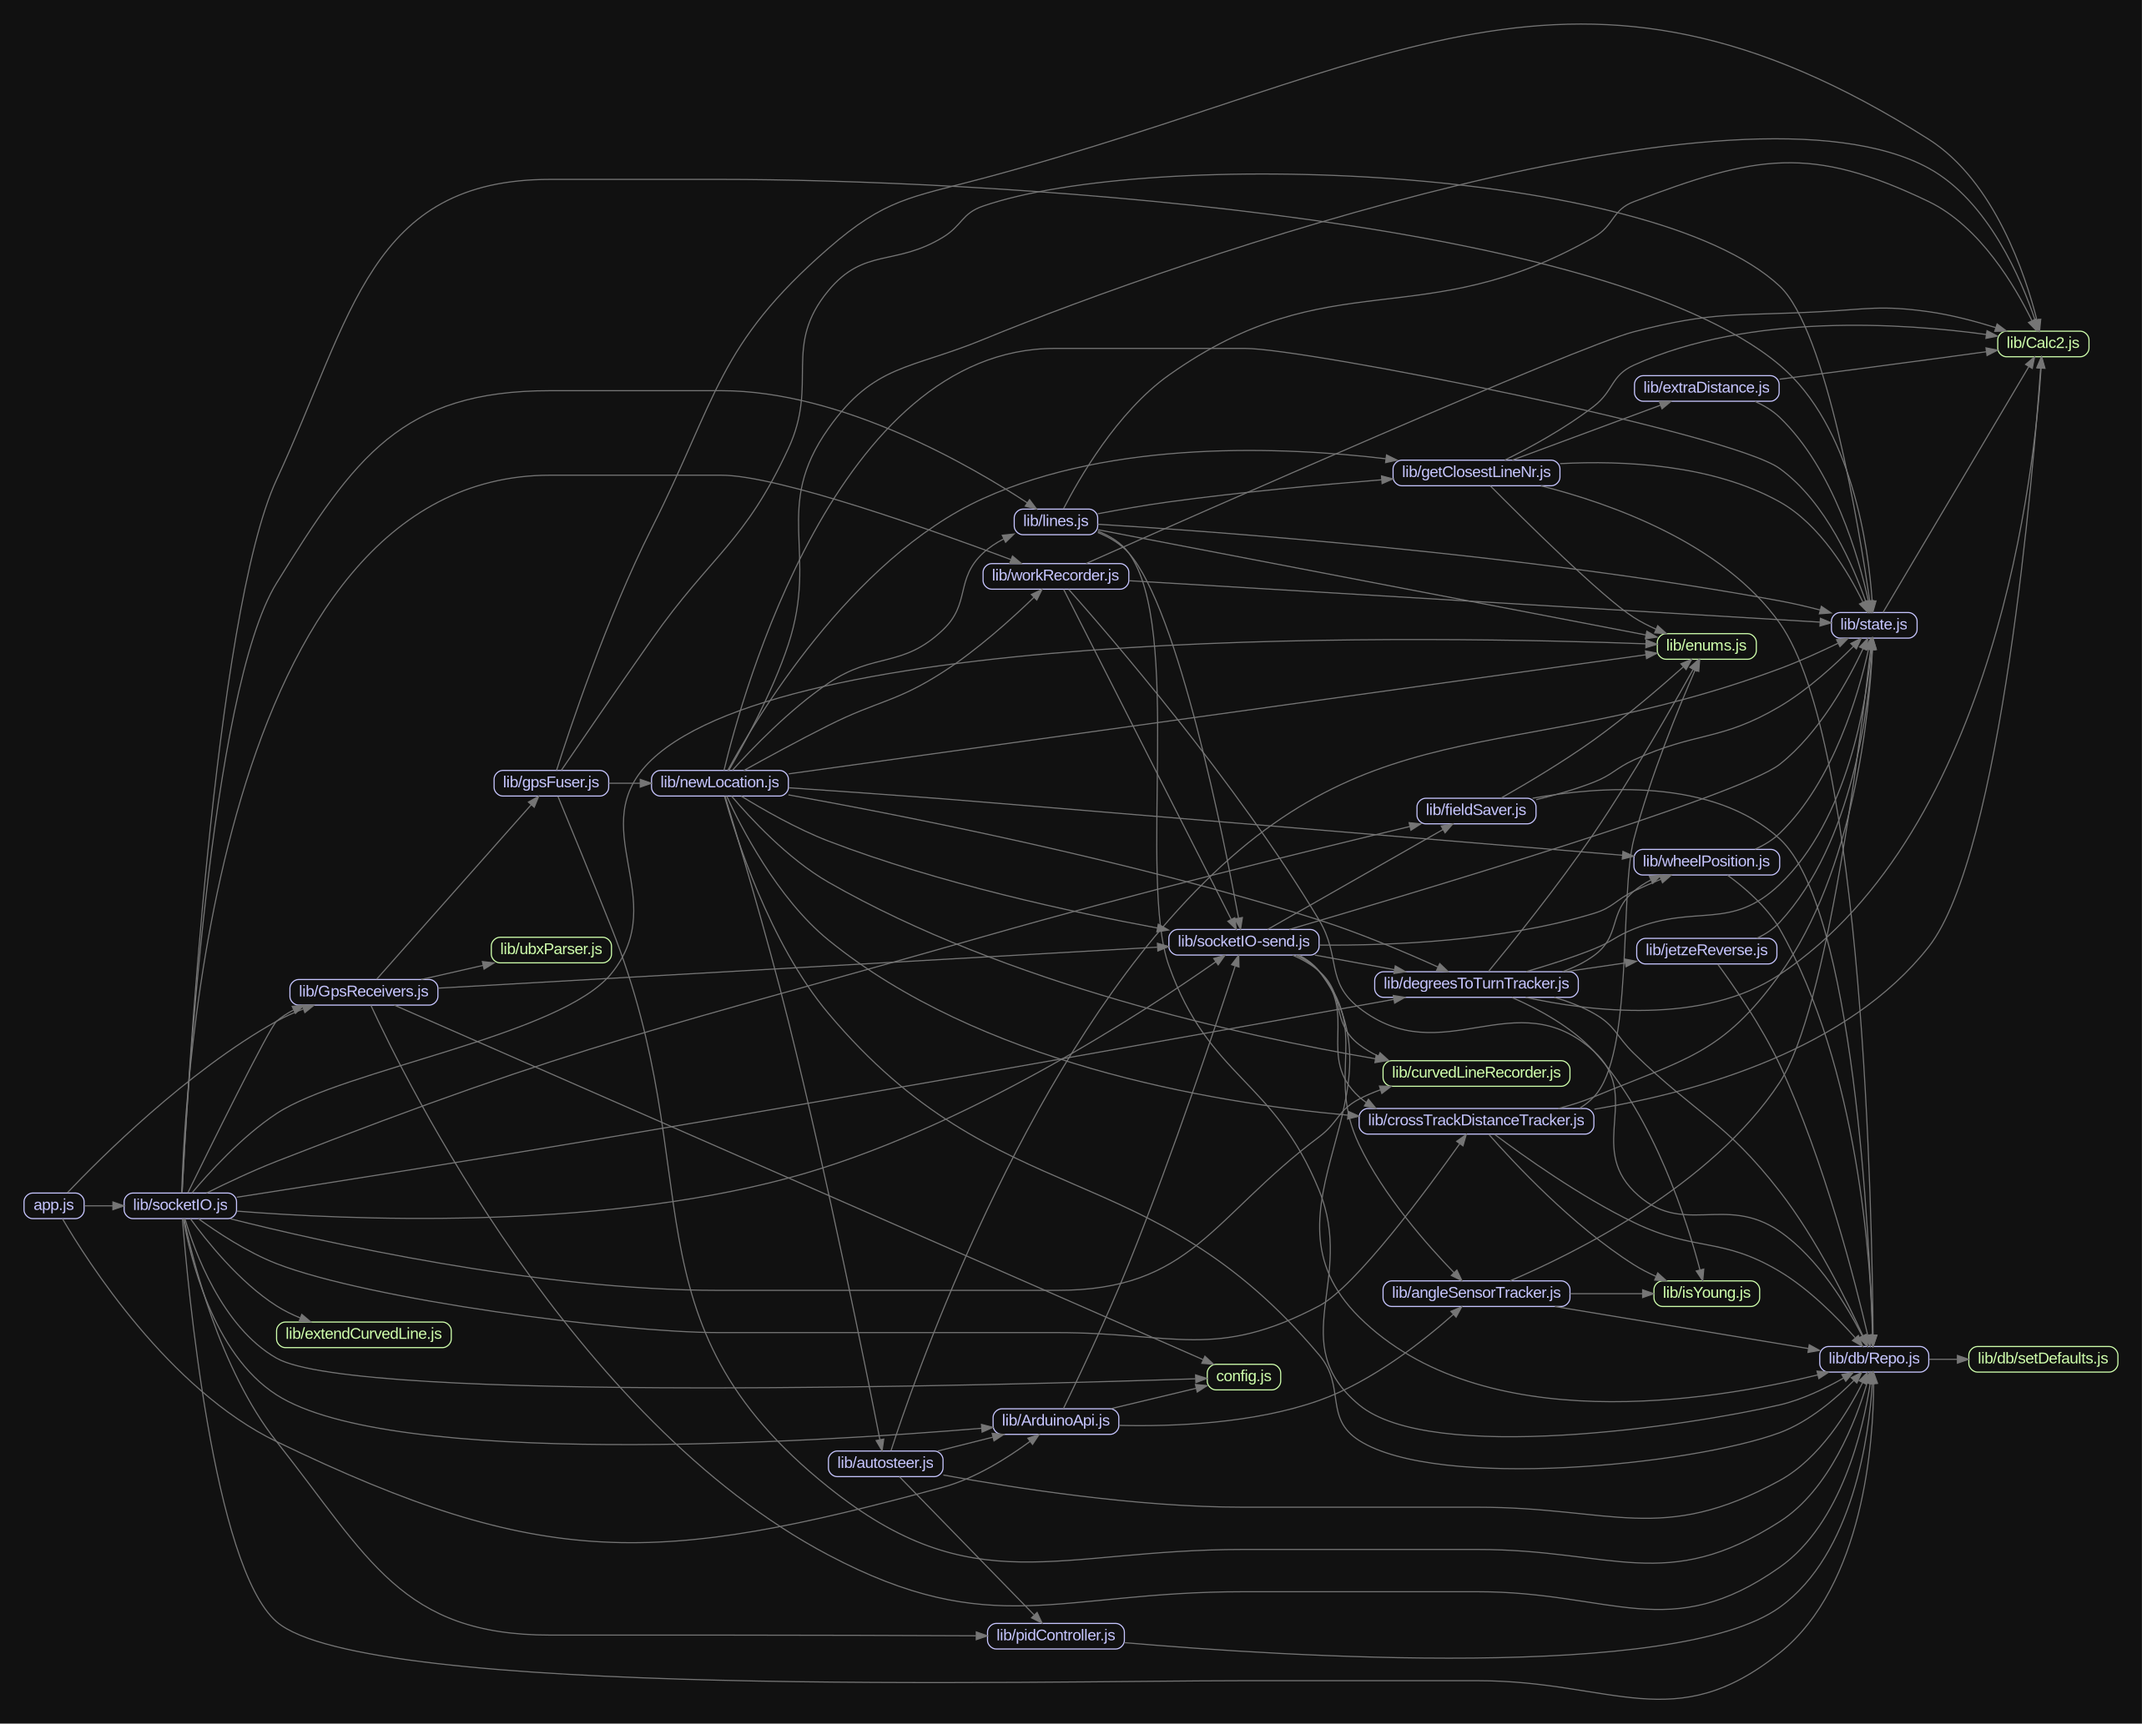
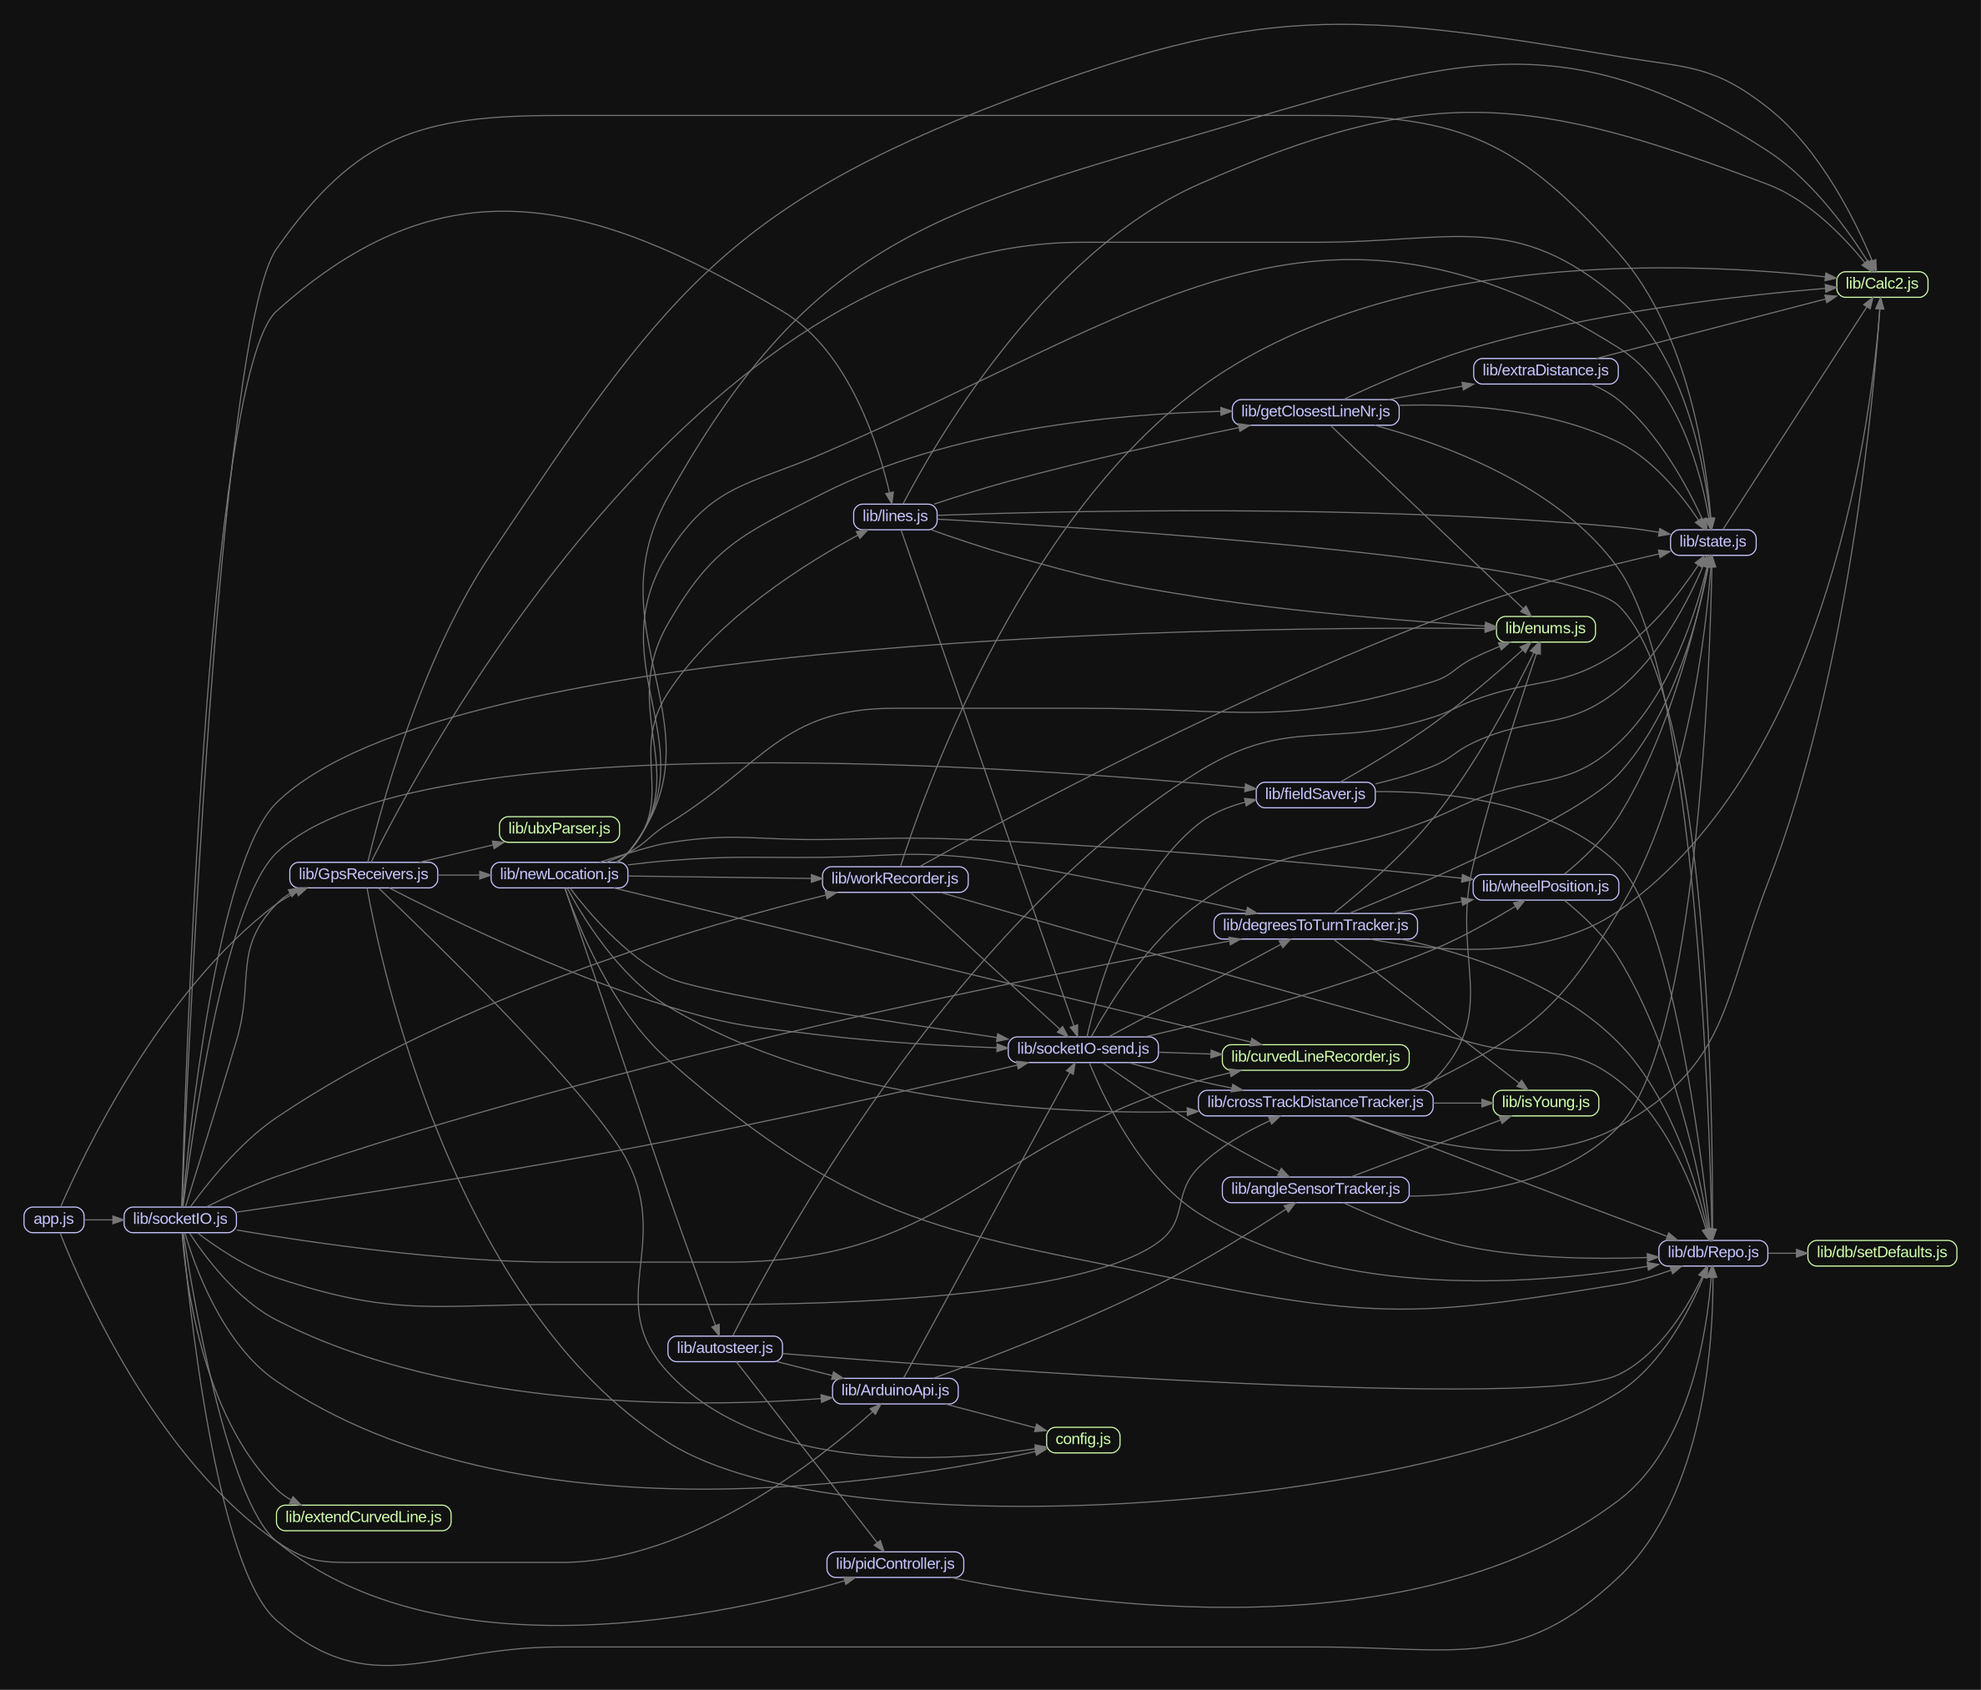
gpsfuser and gpsreceivers together && cleanup

diff --git a/lib/GpsReceivers.js b/lib/GpsReceivers.js
@@ -3,14 +3,15 @@
 const SerialPort = require('serialport');
 const Config = require('../config');
 const ubxParser = require('./ubxParser');
-const GpsFuser = require('./gpsFuser');
 var ecef = require('geodetic-to-ecef');
 //const fs = require('fs');
 const sendInfo = require('./socketIO-send').sendInfo;
 const { NtripClient } = require('ntrip-client');
 const portGpsLeft = new SerialPort(Config.gpsLeft.path, { baudRate: 115200, autoOpen: false });
 const portGpsRight = new SerialPort(Config.gpsRight.path, { baudRate: 115200, autoOpen: false });
-
+const Calc2 = require('./Calc2');
+const NewLocation = require('./newLocation');
+const State = require('./state');
 const axios = require('axios').default;
 const DB = require('./db/Repo');
 
@@ -57,7 +58,7 @@ const GpsReceivers = (() => {
   portGpsLeft.on('data', (line) => {
     //fs.appendFileSync('logsLeft.ubx', line, { encoding: 'binary' });
     if (!line.toString().startsWith('$GN')) {
-      processUbxLeft(line);
+      GpsFuser.left(line);
     } else {
       console.log('NMEA0: ' + line.toString());
     }
@@ -65,7 +66,7 @@ const GpsReceivers = (() => {
   portGpsRight.on('data', (line) => {
     //fs.appendFileSync('logsRight.ubx', line, { encoding: 'binary' });
     if (!line.toString().startsWith('$GN')) {
-      processUbxRight(line);
+      GpsFuser.right(line);
     } else {
       console.log('NMEA1: ' + line.toString());
     }
@@ -79,7 +80,7 @@ const GpsReceivers = (() => {
   function ntripRestart() {
     ntripClient.removeAllListeners();
     ntripClient.close();
-    ntripConnect(); 
+    ntripConnect();
   }
 
   return {
@@ -88,32 +89,6 @@ const GpsReceivers = (() => {
   }
 })();
 
-function processUbxLeft(ubx) {
-  let responses = ubxParser.parse(ubx);
-  responses.forEach(response => {
-    if (response.fixType === '3D-fix') {
-      ntripClient.setXYZ(ecef(response.lat, response.lon));
-    }
-    GpsFuser.fuseReceiver(0, response);
-    sendInfo(0, {
-      time: response.iTow,
-      satCount: response.numSV,
-      quality: response.flags.carrSoln
-    });
-  });
-}
-
-function processUbxRight(ubx) {
-  let responses = ubxParser.parse(ubx);
-  responses.forEach(response => {
-    GpsFuser.fuseReceiver(1, response);
-    sendInfo(1, {
-      time: response.iTow,
-      satCount: response.numSV,
-      quality: response.flags.carrSoln
-    });
-  });
-}
 
 function setupReceiver(port) {
   port.write('B562068A09000001000005005210000160', 'hex'); //valset disable CFG-UART1  
@@ -143,9 +118,80 @@ if (Config.simulator) {
 
   const childLeft = fork(program, ['../ubxSimulator/logsLeft4.ubx', '../ubxSimulator/logsRight4.ubx'], { stdio: ['pipe', 'pipe', 'pipe', 'ipc'] });
   childLeft.on('message', message => {
-    processUbxLeft(Buffer.from(message.left.raw));
-    processUbxRight(Buffer.from(message.right.raw));
+    GpsFuser.left(Buffer.from(message.left.raw));
+    GpsFuser.right(Buffer.from(message.right.raw));
   });
 }
+
+
+const GpsFuser = (() => {
+  const fuse = () => {
+    if (!this.receiver1 || !this.receiver2) {
+      return;
+    }
+    if (this.receiver1.iTow === this.receiver2.iTow) {
+      State.currentSpeedmms = (this.receiver1.gSpeed + this.receiver2.gSpeed) / 2;
+      let r1Location = [this.receiver1.lon, this.receiver1.lat];
+      let r2Location = [this.receiver2.lon, this.receiver2.lat];
+      let receiverDistance = Calc2.distance(r1Location, r2Location);
+      let receiverHeading = Calc2.bearing(r1Location, r2Location);
+
+      let heading = (receiverHeading - 90 + 360) % 360;//kan ook +90 zijn      
+      State.driveBearing = heading;
+      State.gps.leftLocation = r1Location;
+      State.gps.rightLocation = r2Location;
+      let heightDifference = this.receiver1.height / 1000 - this.receiver2.height / 1000;
+      let realReceiverDistance = Math.sqrt(Math.pow(receiverDistance, 2) + Math.pow(heightDifference, 2));
+      let slope = -Calc2.radToDeg(Math.atan(heightDifference / realReceiverDistance));
+      State.currentSlope = slope;
+      let middleLocation = Calc2.coord(r1Location, receiverHeading, receiverDistance / 2);
+      let currentCorrectedLocation = correctForSlopeDual(middleLocation, heading, slope);
+      try {
+        NewLocation(currentCorrectedLocation);
+      } catch (error) {
+        console.log('fuse2 catch: ', error);
+      }
+    }
+    function correctForSlopeDual(location, heading, slope) {
+      const antennaHeight = DB.getSettings().machine.antennaHeight;
+      const y = slope;
+      const corrDistance = Math.sin(Calc2.degToRad(y)) * antennaHeight; // overstaande zijde
+      // ioRoot.emit('currentSlopeCorrection', corrDistance * 100); // slopeDis
+      const correctedLocation = Calc2.coord(location, heading + 90, corrDistance);
+      return correctedLocation;
+    }
+  }
+
+  return {
+    left: (ubx) => {
+      let responses = ubxParser(ubx)
+      responses.forEach(response => {
+        this.receiver1 = response;
+        if (this.receiver1.fixType === '3D-fix') {
+          ntripClient.setXYZ(ecef(this.receiver1.lat, this.receiver1.lon));
+        }
+        sendInfo.left({
+          time: response.iTow,
+          satCount: response.numSV,
+          quality: response.flags.carrSoln
+        });
+      });
+      fuse();
+    },
+    right: (ubx) => {
+      let responses = ubxParser(ubx)
+      responses.forEach(response => {
+        this.receiver2 = response;
+        sendInfo.right({
+          time: response.iTow,
+          satCount: response.numSV,
+          quality: response.flags.carrSoln
+        });
+      });
+      fuse();
+    }
+  }
+
+})();
 
 module.exports = GpsReceivers;

diff --git a/lib/socketIO-send.js b/lib/socketIO-send.js
@@ -13,23 +13,25 @@ function init(Io) {
   io = Io;
   ping();
 }
-function sendInfo(nr, data) {
-  let side = '';
-  if (nr === 0) {
-    side = 'LEFT'
+const sendInfo = (() => {
+  return {
+    left: (data) => {
+      send('LEFT', data);
+    },
+    right: (data) => {
+      send('RIGHT', data);
+    }
   }
-  if (nr === 1) {
-    side = 'RIGHT'
-  }
-
-  io.emit(`INFO_${side}`,
+  function send(side, data){
+    io.emit(`INFO_${side}`,
     {
       time: data.time,
       satCount: data.satCount,
       quality: data.quality,
     }
   );
-}
+  }
+})();
 function sendMapLines(socket) {
   if (!socket) {
     socket = io;

diff --git a/lib/ubxParser.js b/lib/ubxParser.js
@@ -1,15 +1,7 @@
 'use strict';
 //5.14.6 UBX-NAV-HPPOSLLH (0x01 0x14)
 
-const ubxHighPrecisionParser = (() => {
-  function parse(message) {
-    return getData(message);
-  }
-
-  return {
-    parse
-  }
-})();
+const ubxHighPrecisionParser = (() => (message) => getData(message))();
 
 
 function getData(data) {
